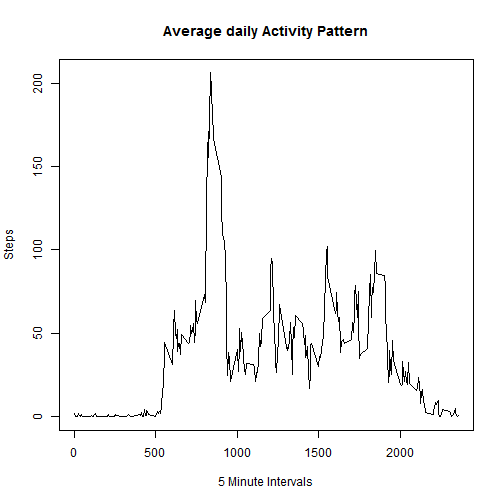
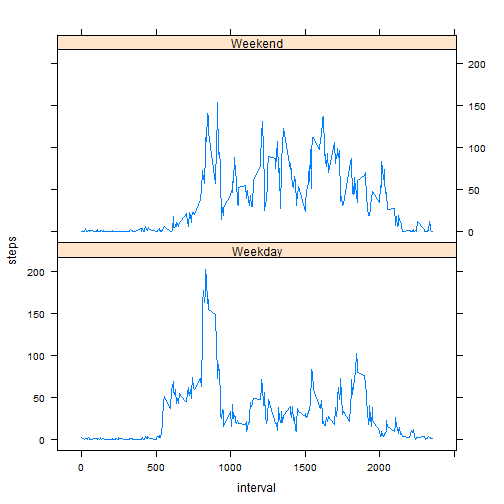
first commit

diff --git a/PA1_template.html b/PA1_template.html
@@ -289,21 +289,23 @@ plot(byInterval$interval,
 
 <p>Create a factor variable with &ldquo;Weekday&rdquo; and &ldquo;Weekend&rdquo; as values and add that column along with data frame for which we imputed values for NA above.</p>
 
-<pre><code class="r">  weekFactor &lt;- sub(&quot;Saturday|Sunday&quot;, &quot;Weekend&quot;, 
+<pre><code class="r">  library(lattice)
+  weekFactor &lt;- sub(&quot;Saturday|Sunday&quot;, &quot;Weekend&quot;, 
                     weekdays(as.Date(dfa_imput$date)))
-  weekFactor &lt;- replace(weekFactor, grep(&quot;Weekend&quot;, invert = TRUE, weekFactor), &quot;Weekday&quot;)
+  weekFactor &lt;- replace(weekFactor, 
+                        grep(&quot;Weekend&quot;, invert = TRUE, weekFactor), &quot;Weekday&quot;)
   dfa_imput[&quot;week&quot;] &lt;- factor(weekFactor)
 
-meanByInterval &lt;- aggregate(dfa_imput$steps, FUN =&quot;mean&quot;, by = list(interval = dfa_imput$interval), na.action = na.omit)
+  meanByInterval &lt;- ddply(dfa_imput, 
+                          .(interval, week), 
+                          summarise, 
+                          steps=mean(steps))
 
-plot(meanByInterval$interval, 
-     byInterval$x, type = &quot;l&quot;, 
-     main = &quot;Average daily Activity Pattern&quot;,
-     xlab = &quot;5 Minute Intervals&quot;,
-     ylab = &quot;Steps&quot;)
+  xyplot(steps ~ interval | week, 
+         data = meanByInterval, layout = c(1, 2), type=&quot;l&quot;)
 </code></pre>
 
[2 lines of base64/hex data omitted]
 
 </body>
 

diff --git a/PA1_template.md b/PA1_template.md
@@ -139,18 +139,20 @@ Create a factor variable with "Weekday" and "Weekend" as values and add that col
 
 
 ```r
+  library(lattice)
   weekFactor <- sub("Saturday|Sunday", "Weekend", 
                     weekdays(as.Date(dfa_imput$date)))
-  weekFactor <- replace(weekFactor, grep("Weekend", invert = TRUE, weekFactor), "Weekday")
+  weekFactor <- replace(weekFactor, 
+                        grep("Weekend", invert = TRUE, weekFactor), "Weekday")
   dfa_imput["week"] <- factor(weekFactor)
 
-meanByInterval <- aggregate(dfa_imput$steps, FUN ="mean", by = list(interval = dfa_imput$interval), na.action = na.omit)
+  meanByInterval <- ddply(dfa_imput, 
+                          .(interval, week), 
+                          summarise, 
+                          steps=mean(steps))
 
-plot(meanByInterval$interval, 
-     byInterval$x, type = "l", 
-     main = "Average daily Activity Pattern",
-     xlab = "5 Minute Intervals",
-     ylab = "Steps")
+  xyplot(steps ~ interval | week, 
+         data = meanByInterval, layout = c(1, 2), type="l")
 ```
 
 ![plot of chunk unnamed-chunk-7](figure/unnamed-chunk-7.png) 
